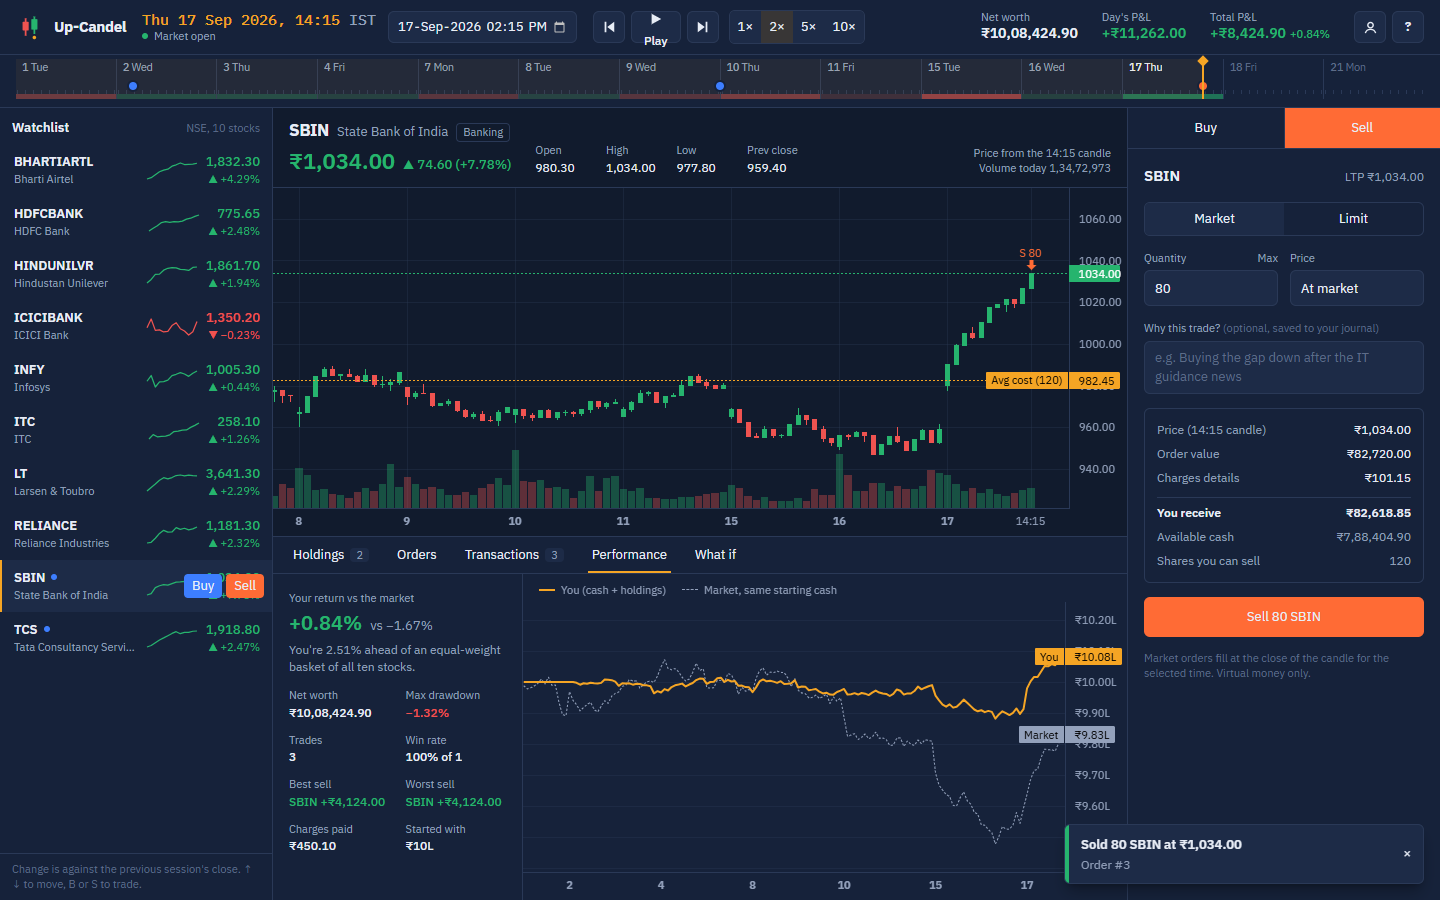
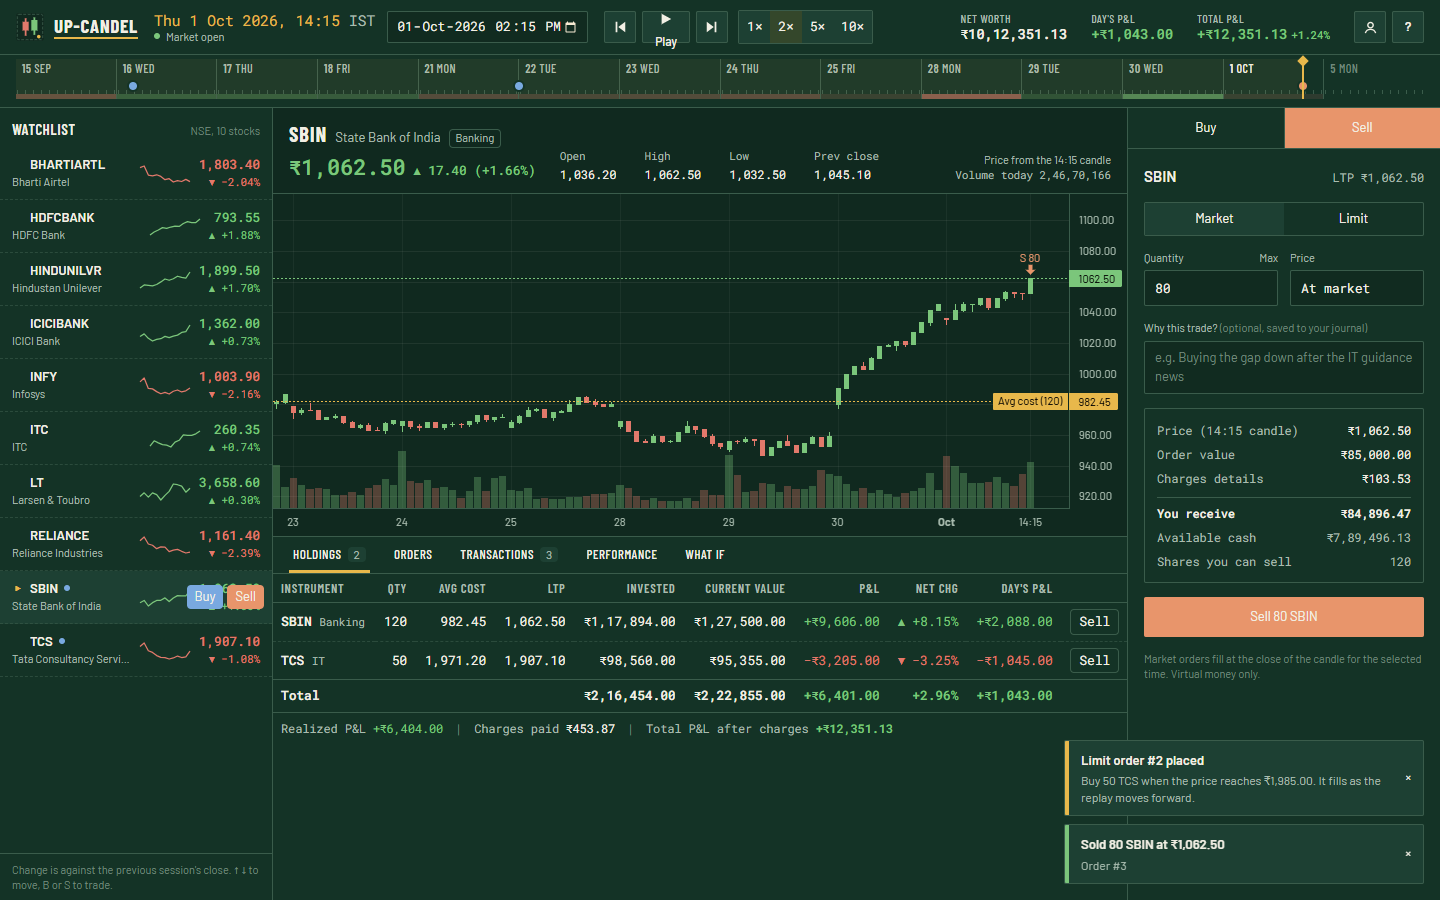
Update README and screenshot for the new dates and theme

diff --git a/README.md b/README.md
@@ -61,13 +61,13 @@ npm run generate-data  # rebuilds the CSVs in data/ (same seed, same output)
 
 ```
 timestamp,open,high,low,close,volume
-2026-09-01T09:15:00+05:30,2092.30,2092.30,2076.20,2079.00,447854
+2026-09-15T09:15:00+05:30,2092.30,2092.30,2076.20,2079.00,447854
 ```
 
-- **Window:** 1 to 21 Sep 2026, which is 14 trading days. Weekends are skipped and so is Mon 14 Sep (Ganesh Chaturthi, an NSE holiday). Janmashtami on 4 Sep isn't on the 2026 exchange holiday list, so that day trades.
+- **Window:** it starts on 14 Sep 2026 and runs for the next 14 trading days, which lands on 15 Sep to 5 Oct. Three kinds of day are missing from it: weekends, Mon 14 Sep (Ganesh Chaturthi) and Fri 2 Oct (Gandhi Jayanti), both NSE holidays. That gap in the middle is worth showing in a demo, since the app has to price and label a closed day correctly.
 - **Candles follow NSE's session:** 09:15 to 15:30 IST, so a day has 13 candles (09:15, 09:45 ... 15:15). The last one is only 15 minutes long, same as on Kite.
 - **Size:** 10 stocks x 14 days x 13 candles = 1,820 rows.
-- **Prices start near real late-August 2026 levels** (RELIANCE ~₹1,240, TCS ~₹2,110 and so on) but everything after that is synthetic.
+- **Prices start near real early-September 2026 levels** (RELIANCE ~₹1,240, TCS ~₹2,110 and so on) but everything after that is synthetic.
 
 The brief suggested generating the data with ChatGPT. I wrote a small generator instead (`scripts/generate-data.ts`), mainly so the numbers are reproducible and actually behave like a market:
 
@@ -75,7 +75,7 @@ The brief suggested generating the data with ChatGPT. I wrote a small generator 
 - Days open with an overnight gap. Volatility and volume are higher at the open and close than at lunch (the usual U shape).
 - High and low come from a simulated path inside each candle, so every candle is internally consistent.
 - Prices sit on NSE's tick grid (₹0.01 under ₹250, ₹0.05 up to ₹1,000, ₹0.10 up to ₹5,000).
-- There are three scripted news days, so the replay has moments worth trading around: Bharti Airtel gaps up on 8 Sep, TCS and Infosys gap down on 10 Sep, SBI gaps up on 17 Sep.
+- There are three scripted news days, so the replay has moments worth trading around: Bharti Airtel gaps up on 18 Sep, TCS and Infosys gap down on 22 Sep, SBI gaps up on 30 Sep.
 - The seed is fixed, so rerunning it gives byte-identical files.
 
 On startup the server loads the CSVs into SQLite (the `stocks` and `candles` tables), which makes the CSVs the source of truth. Orders and trades live in the same database file under `var/`.
@@ -97,9 +97,9 @@ On startup the server loads the CSVs into SQLite (the `stocks` and `candles` tab
 Real brokers and the tax department use FIFO lot matching instead of a running average. For a paper-trading app I think average cost is easier to read, but it's worth knowing the difference.
 
 **Moving through time.** This part needed a rule, since the brief asks for prices at any selected time and you can also trade.
-- Everything you see is *as of* the clock. Jump back to 5 Sep after trading on the 17th and the holdings, cash and history show exactly what you had on the 5th. Later trades show as faded dots on the tape.
+- Everything you see is *as of* the clock. Jump back to 17 Sep after trading on 1 Oct and the holdings, cash and history show exactly what you had on the 17th. Later trades show as faded dots on the tape.
 - Trading only moves forward. You can't place an order earlier than the latest activity on your ledger, otherwise you could sell on day 3 shares you'd already sold on day 8. The ticket explains this and offers a jump back to your latest trade. Reset the account if you want to start over.
-- Looking ahead is free. If you have a limit order waiting and scrub past the moment it would fill, you'll see it filled, but nothing is saved until you actually trade at or after that time. So you can peek at day 10 and still come back and trade on day 4.
+- Looking ahead is free. If you have a limit order waiting and scrub past the moment it would fill, you'll see it filled, but nothing is saved until you actually trade at or after that time. So you can peek at 1 Oct and still come back and trade on 17 Sep.
 
 ## API
 
